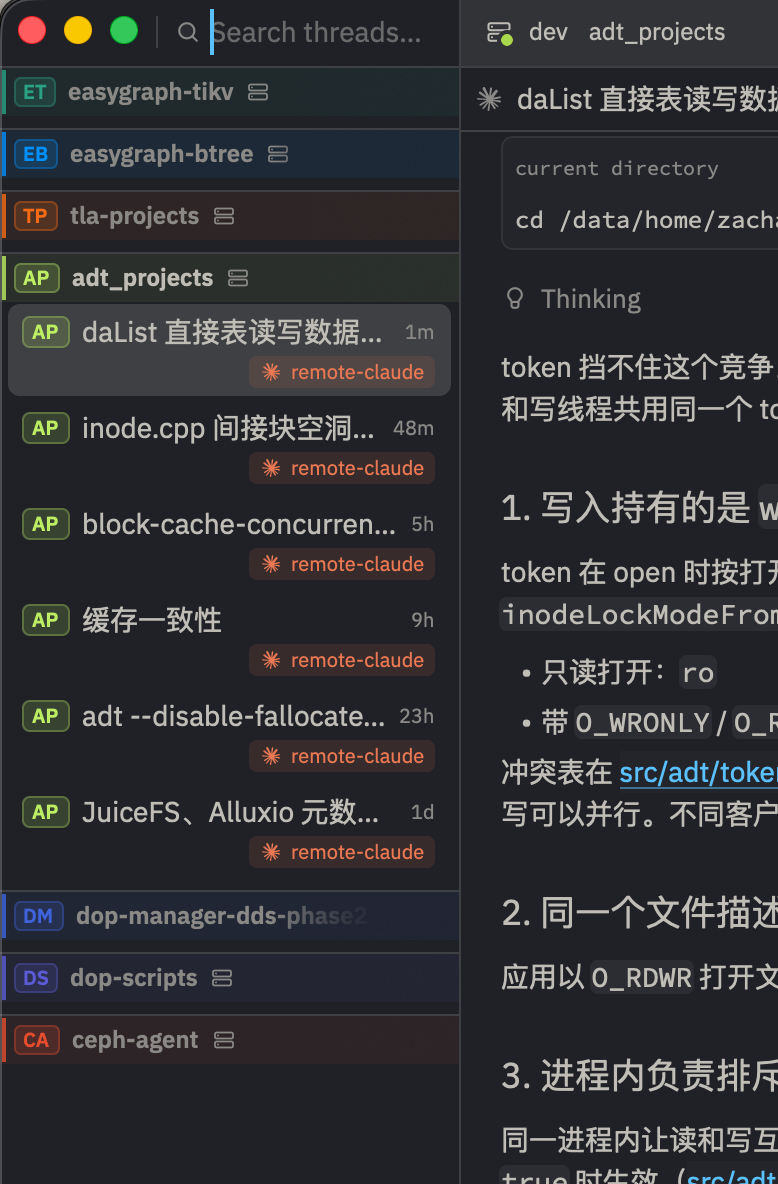
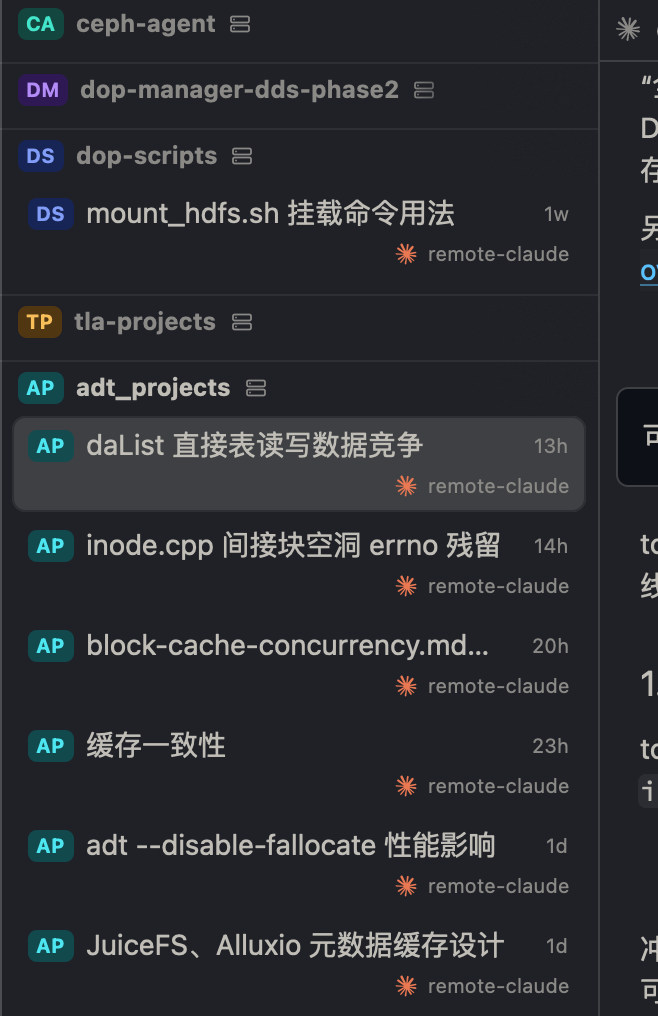
docs: Update README features and latest sidebar preview

diff --git a/README.md b/README.md
@@ -13,11 +13,13 @@
 
 - **紧凑高信息密度 Agent 侧边栏（参考 T3 Code 风格）**
   - **彩色文件夹缩写徽章**：按项目名自动生成 2 位大写缩写（如 `adt_projects` → `AP`、`dop-scripts` → `DS`、`ceph-agent` → `CA`），为不同文件夹分配高区分度独立配色，亮色/暗色主题独立调校、切换主题即时刷新。
-  - **清晰的 Agent 类型与图标识别**：右侧直观显示启动该会话的 Agent 图标与名称，自动支持 `claude`、`codex`、`cursor`、`codebuddy-code`、`zed`、`gemini`、`opencode`、`copilot` 以及任意自定义 ACP（如 `tclaude`、`tcodex`、`remote-claude` 自动继承对应品牌图标与配色并保留自定义名称）。
-  - **精致卡片选中态与清晰分组边界**：去掉多余外框与厚重底色，暗色与亮色主题下均保持通透清晰。
-- **Agent 对话阅读增强**
-  - **一键隐藏思考与命令执行**：对话右上角提供 `Hide steps` / `Steps hidden` 开关（同时支持 Action `agent::ToggleHideThinkingAndTools`），一键折叠所有 `Thinking` 块与已完成的工具调用 / shell 命令，只保留「你的提问 ↔ Agent 回复」（正在等待确认、运行中或出错的步骤始终保持可见）。
-  - **右侧对话进度刻度尺导航**：对话包含多轮提问时，右侧边显示波浪刻度尺仪表盘，高亮当前阅读进度；鼠标悬停任意刻度弹出该轮问题与回复摘要卡片，点击一键跳转至对应提问。
+  - **清晰的字体层级**：Project 标题跟随 Settings 中的 `ui_font_size` 实时缩放，Session 标题自动精确缩小 2 个字号（`-2px`），项目与会话主次分明。
+  - **清晰的 Agent 类型与图标识别**：右侧以透明底精致图标直观显示启动该会话的 Agent 图标与名称，自动支持 `claude`、`codex`、`cursor`、`codebuddy-code`、`zed`、`gemini`、`opencode`、`copilot` 以及任意自定义 ACP（如 `tclaude`、`tcodex`、`remote-claude` 自动继承对应品牌图标与配色并保留自定义名称）。
+- **Agent 对话阅读与时间统计增强**
+  - **用户输入与 AI 回复清晰分区**：用户输入改为**右对齐主题色微染气泡**（带 `You` 与发送时间），AI 输出保持**左对齐全宽**且每段回复起点自动显示 **Agent 品牌图标 + 名称 + 开始时间与执行耗时**，一眼分清谁说的话、回答从哪里开始。
+  - **每轮与整会话执行时间统计**：自动记录每轮提问发送时间、AI 开始时间与执行耗时（运行中实时跳秒，并在顶部栏统计整个会话累计耗时），通过 `KeyValueStore` 持久化，重启 Zed 后历史耗时依然保留。
+  - **一键隐藏思考与命令执行**：对话顶部栏提供 `Hide steps` / `Steps hidden` 开关（同时支持 Action `agent::ToggleHideThinkingAndTools`），一键折叠所有 `Thinking` 块与已完成的工具调用 / shell 命令，只保留「你的提问 ↔ Agent 回复」（等待确认、运行中或出错的步骤始终保持可见）。
+  - **左侧零遮挡进度刻度尺导航**：对话包含多轮提问时，对话左侧独立列显示波浪刻度尺仪表盘（绝不遮挡正文，窄宽度下同样清爽），高亮当前阅读进度；鼠标悬停任意刻度在右侧弹出该轮问题、发送时间、耗时与回复摘要卡片，点击一键跳转。
 - **与官方 Zed 无缝并存 + 自动追更**
   - 独立打包为 **`Zed Custom.app`**（`CFBundleIdentifier: dev.zed.Zed-Custom`），与 `/Applications/Zed.app` 并存互不覆盖，同时共享 `stable` 渠道配置、线程历史与官方远端 SSH `zed-remote-server`（无需本机 `zig` 交叉编译）。
   - GitHub Actions 每天自动检测上游最新稳定版 Tag（`vX.Y.Z`）、自动 rebase、构建签名并发布到 [Releases](https://github.com/ZacharyLiu-CS/zed/releases)；客户端自动检测并原地静默更新 `/Applications/Zed Custom.app`。
